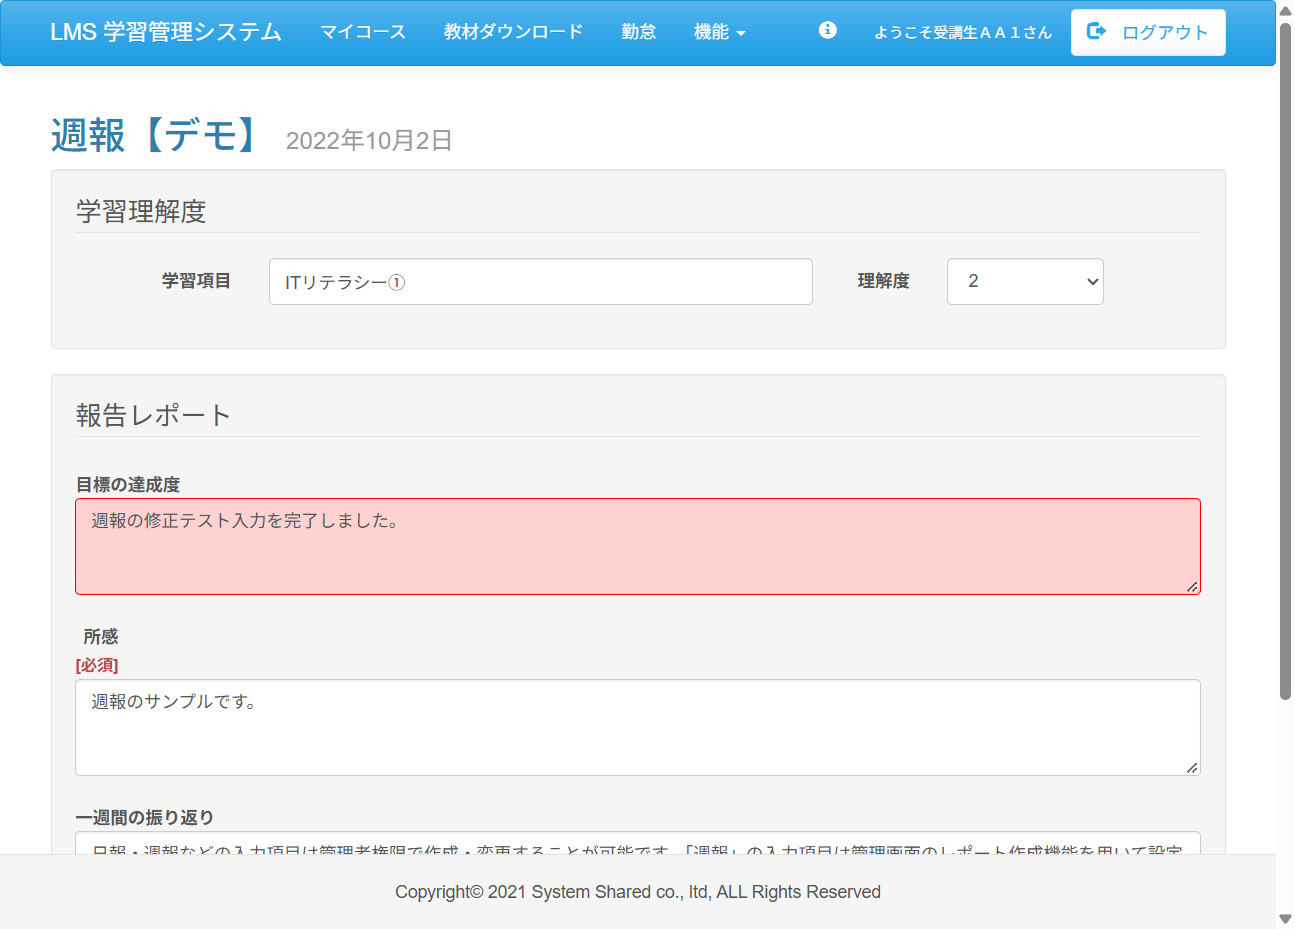
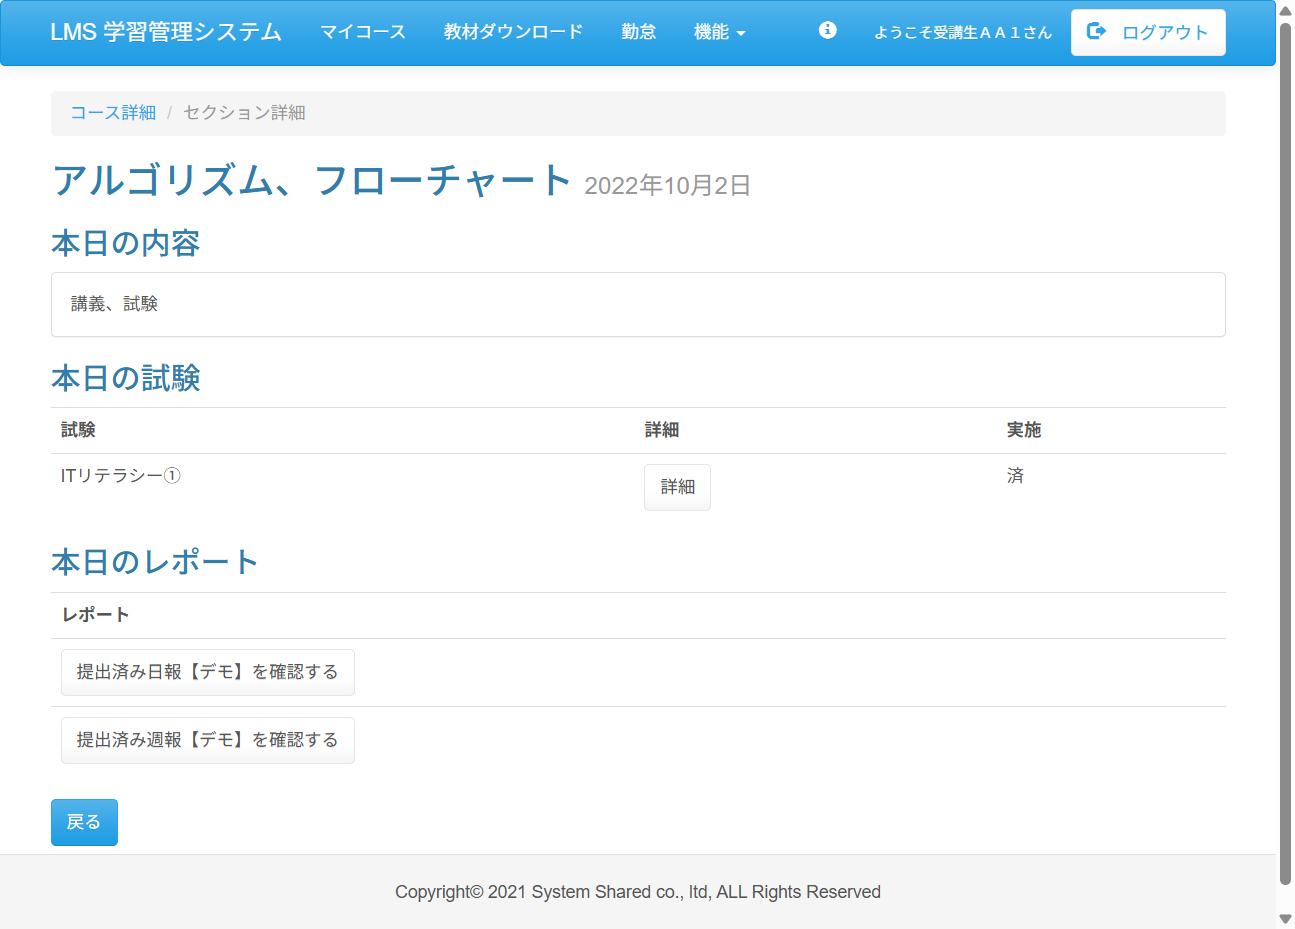
add:Case08 後藤 自動テストコードの新規追加と検証完了
・Case08（テスト01〜07）の自動テストプログラムを新規実装
・全テスト（01〜07）が正常に通ることを確認し、オールグリーンでのエビデンス（No.1〜No.7）自動保存を完了

diff --git a/test_code_creation_name/src/test/java/jp/co/sss/lms/ct/f04_attendance/Case11.java b/test_code_creation_name/src/test/java/jp/co/sss/lms/ct/f04_attendance/Case11.java
@@ -1,6 +1,11 @@
 package jp.co.sss.lms.ct.f04_attendance;
 
 import static jp.co.sss.lms.ct.util.WebDriverUtils.*;
+import static org.junit.jupiter.api.Assertions.*;
+
+import java.io.File;
+import java.nio.file.Files;
+import java.nio.file.Paths;
 
 import org.junit.jupiter.api.AfterAll;
 import org.junit.jupiter.api.BeforeAll;
@@ -9,6 +14,10 @@ import org.junit.jupiter.api.MethodOrderer.OrderAnnotation;
 import org.junit.jupiter.api.Order;
 import org.junit.jupiter.api.Test;
 import org.junit.jupiter.api.TestMethodOrder;
+import org.openqa.selenium.By;
+import org.openqa.selenium.OutputType;
+import org.openqa.selenium.TakesScreenshot;
+import org.openqa.selenium.WebElement;
 
 /**
  * 結合テスト 勤怠管理機能
@@ -34,22 +43,99 @@ public class Case11 {
 	@Test
 	@Order(1)
 	@DisplayName("テスト01 トップページURLでアクセス")
-	void test01() {
-		// TODO ここに追加
+	void test01() throws Exception {
+		//[No.01]ログイン画面にアクセスする
+		goTo("http://localhost:8080/lms");
+		//1秒待つ
+		Thread.sleep(1000);
+		// 画面上にログインID入力欄が存在するかチェック
+		final WebElement loginId = webDriver.findElement(By.name("loginId"));
+
+		final WebElement passWd = webDriver.findElement(By.name("password"));
+
+		final WebElement loginButton = webDriver.findElement(By.cssSelector(".btn.btn-primary"));
+
+		//ログイン画面が表示されていることを「assertTrue」で検証
+		assertTrue(loginId.isDisplayed());
+
+		assertTrue(passWd.isDisplayed());
+
+		assertTrue(loginButton.isDisplayed());
+
+		//エビデンスを撮る
+		File file = ((TakesScreenshot) webDriver).getScreenshotAs(OutputType.FILE);
+		Files.copy(file.toPath(), Paths.get("./evidence/Case11/No.1.png"));
+
+		System.out.println("No.1: ログイン画面確認とエビデンス保存を完了しました。");
+
 	}
 
 	@Test
 	@Order(2)
 	@DisplayName("テスト02 初回ログイン済みの受講生ユーザーでログイン")
-	void test02() {
-		// TODO ここに追加
+	void test02() throws Exception {
+		//ログイン画面が開いている前提で入力を行う
+		String myId = "StudentAA01";
+		String myPw = "studentAA01";
+
+		//[No.02]画面の表示内容を確認する。
+		//ログインID、パスワード、ログインボタンが表示されていること
+		final WebElement checkLoginId = webDriver.findElement(By.name("loginId"));
+		checkLoginId.sendKeys(myId);
+
+		final WebElement checkPass = webDriver.findElement(By.name("password"));
+		checkPass.sendKeys(myPw);
+		final WebElement checkloginButton = webDriver.findElement(By.cssSelector(".btn.btn-primary"));
+
+		// 入力された文字列が正しく反映されているかを検証（仕様書の期待値より）
+		assertEquals(myId, checkLoginId.getAttribute("value"), "ログインIDが正しく入力されていません。");
+		assertEquals(myPw, checkPass.getAttribute("value"), "パスワードが正しく入力されていません。");
+
+		//3秒待つ
+		Thread.sleep(3000);
+
+		//  ログインボタンをクリック
+		checkloginButton.click();
+
+		// 画面が切り替わるのを少し待つ
+		Thread.sleep(2000);
+
+		String currentUrl = webDriver.getCurrentUrl();
+		assertTrue(currentUrl.contains("lms"), "コース詳細画面へ遷移していません。現在のURL: " + currentUrl);
+
+		String pageText = webDriver.findElement(By.tagName("body")).getText();
+		assertTrue(pageText.contains("受講生"), "ログインした受講生の専用情報が表示されていません。");
+		//エビデンスを撮る
+		File file2 = ((TakesScreenshot) webDriver).getScreenshotAs(OutputType.FILE);
+
+		Files.copy(file2.toPath(), Paths.get("./evidence/Case11/No.2.png"));
+
+		System.out.println("No.2: ログイン成功とコース詳細画面のエビデンス保存を完了しました。");
 	}
 
 	@Test
 	@Order(3)
 	@DisplayName("テスト03 上部メニューの「勤怠」リンクから勤怠管理画面に遷移")
-	void test03() {
-		// TODO ここに追加
+	void test03() throws Exception {
+		final WebElement attendanceLink = webDriver.findElement(By.cssSelector("a[href='/lms/attendance/detail']")); // 「ようこそ○○さん」リンクを押下する
+		attendanceLink.click();
+
+		//		// 画面が切り替わるまで待つ
+		//		Thread.sleep(2000);
+		//		webDriver.findElement(By.tagName("body")).sendKeys(Keys.ENTER);
+		//		Thread.sleep(1000);
+		//		// 画面遷移およびアラートが表示されるまで待つ
+		//		Thread.sleep(2000);
+		//		webDriver.findElement(By.linkText("過去日の勤怠に未入力があります。")).sendKeys(Keys.ENTER);
+		//		// 現在の遷移後のURLを取得する
+		//		String currentUrl = webDriver.getCurrentUrl();
+		//		// ユーザー詳細画面に遷移していることをURLで検証
+		//		assertTrue(currentUrl.contains("attendance"), "ユーザー詳細画面に遷移していません。（現在のURL: " + currentUrl + "）");
+		//		// ユーザー詳細画面のスクリーンショットを撮影・保存する（エビデンスNo.3）
+		//		File file3 = ((TakesScreenshot) webDriver).getScreenshotAs(OutputType.FILE);
+		//		Files.copy(file3.toPath(), Paths.get("./evidence/Case11/No.3.png"));
+		//
+		//		System.out.println("No.6: ユーザー詳細画面への遷移とエビデンス保存を完了しました。");
 	}
 
 	@Test

diff --git a/test_code_creation_name/src/test/java/jp/co/sss/lms/ct/f03_report/Case08.java b/test_code_creation_name/src/test/java/jp/co/sss/lms/ct/f03_report/Case08.java
@@ -119,8 +119,7 @@ public class Case08 {
 	@DisplayName("テスト03 提出済の研修日の「詳細」ボタンを押下しセクション詳細画面に遷移")
 	void test03() throws Exception {
 		//提出済みの行にある（二個目の）詳細ボタンを取得する
-		final WebElement detailButton = webDriver
-				.findElement(By.cssSelector("input[value='2'] + input"));
+		final WebElement detailButton = webDriver.findElement(By.cssSelector("input[value='2'] + input"));
 		// 詳細ボタンをクリックする
 		detailButton.click();
 		// 画面が切り替わるまで2秒待つ
@@ -142,8 +141,7 @@ public class Case08 {
 	@DisplayName("テスト04 「確認する」ボタンを押下しレポート登録画面に遷移")
 	void test04() throws Exception {
 
-		final WebElement reportButton = webDriver
-				.findElement(By.cssSelector("input[value='提出済み週報【デモ】を確認する']"));
+		final WebElement reportButton = webDriver.findElement(By.cssSelector("input[value='提出済み週報【デモ】を確認する']"));
 		// 「提出済み週報を確認する」ボタンをクリックする
 		reportButton.click();
 
@@ -167,12 +165,11 @@ public class Case08 {
 		final WebElement textArea = webDriver.findElement(By.tagName("textarea"));
 		// 消去する
 		textArea.clear();
-		// 修正用の新しい報告内容のテキストを打つ
-		textArea.sendKeys("週報の修正テスト入力を完了しました。");
-		// 文字の入力反映をしっかり1秒待つ
+		// 修正用の新しい報告内容のテキストを打つ(ただし、1～10の半角数字のみ）
+		textArea.sendKeys("7");
+		// 文字の入力反映を待つ
 		Thread.sleep(1000);
 
-		// ケース07で送信タイプ（type='submit'）の提出ボタンをCSSセレクターで取得する
 		final WebElement submitButton = webDriver.findElement(By.cssSelector(".btn-primary"));
 		// 「提出する」ボタンをクリックして修正内容を送信する
 		submitButton.sendKeys(Keys.ENTER);
@@ -182,7 +179,7 @@ public class Case08 {
 		// 現在の遷移後のURLを取得する
 		String currentUrl = webDriver.getCurrentUrl();
 		// 提出後に無事に元のセクション詳細画面に戻ってきていることを検証する
-		assertTrue(currentUrl.contains("lms"), "提出後に詳細画面に戻っていません。");
+		assertTrue(currentUrl.contains("section/detail"), "提出後に詳細画面に戻っていません。現在のURL" + currentUrl + "です");
 
 		// 提出完了後に戻った『セクション詳細画面』のスクリーンショットを撮影・保存する
 		File file5 = ((TakesScreenshot) webDriver).getScreenshotAs(OutputType.FILE);
@@ -194,15 +191,48 @@ public class Case08 {
 	@Test
 	@Order(6)
 	@DisplayName("テスト06 上部メニューの「ようこそ○○さん」リンクからユーザー詳細画面に遷移")
-	void test06() {
-		// TODO ここに追加
+	void test06() throws Exception {
+		final WebElement userLink = webDriver.findElement(By.cssSelector("a[href='/lms/user/detail']")); // 「ようこそ○○さん」リンクを押下する
+		userLink.click();
+
+		// 画面が切り替わるまで待つ
+		Thread.sleep(2000);
+
+		// 現在の遷移後のURLを取得する
+		String currentUrl = webDriver.getCurrentUrl();
+		// ユーザー詳細画面に遷移していることをURLで検証
+		assertTrue(currentUrl.contains("user"), "ユーザー詳細画面に遷移していません。（現在のURL: " + currentUrl + "）");
+
+		// ユーザー詳細画面のスクリーンショットを撮影・保存する（エビデンスNo.6）
+		File file6 = ((TakesScreenshot) webDriver).getScreenshotAs(OutputType.FILE);
+		Files.copy(file6.toPath(), Paths.get("./evidence/Case08/No.6.png"));
+
+		System.out.println("No.6: ユーザー詳細画面への遷移とエビデンス保存を完了しました。");
 	}
 
 	@Test
 	@Order(7)
 	@DisplayName("テスト07 該当レポートの「詳細」ボタンを押下しレポート詳細画面で修正内容が反映される")
-	void test07() {
-		// TODO ここに追加
+	void test07() throws Exception {
+		final WebElement reportDetailButton = webDriver
+				.findElement(By.cssSelector("form:has(input[value='3']) input[value='詳細']"));
+		// 「詳細」ボタンをクリックする
+		reportDetailButton.sendKeys(Keys.ENTER);
+
+		// 画面が切り替わるまで2秒待つ
+		Thread.sleep(2000);
+
+		// 画面全体のテキストを取得する
+		String pageText = webDriver.findElement(By.tagName("body")).getText();
+
+		// 【検証】
+		assertTrue(pageText.contains("報告レポート"), "修正した内容がレポート詳細画面に反映されていません。");
+
+		// 最終確認画面のスクリーンショットを撮影・保存する（エビデンスNo.7）
+		File file7 = ((TakesScreenshot) webDriver).getScreenshotAs(OutputType.FILE);
+		Files.copy(file7.toPath(), Paths.get("./evidence/Case08/No.7.png"));
+
+		System.out.println("No.7: レポート詳細画面への遷移と修正内容の反映確認、エビデンス保存を完了しました。");
 	}
 
 }
